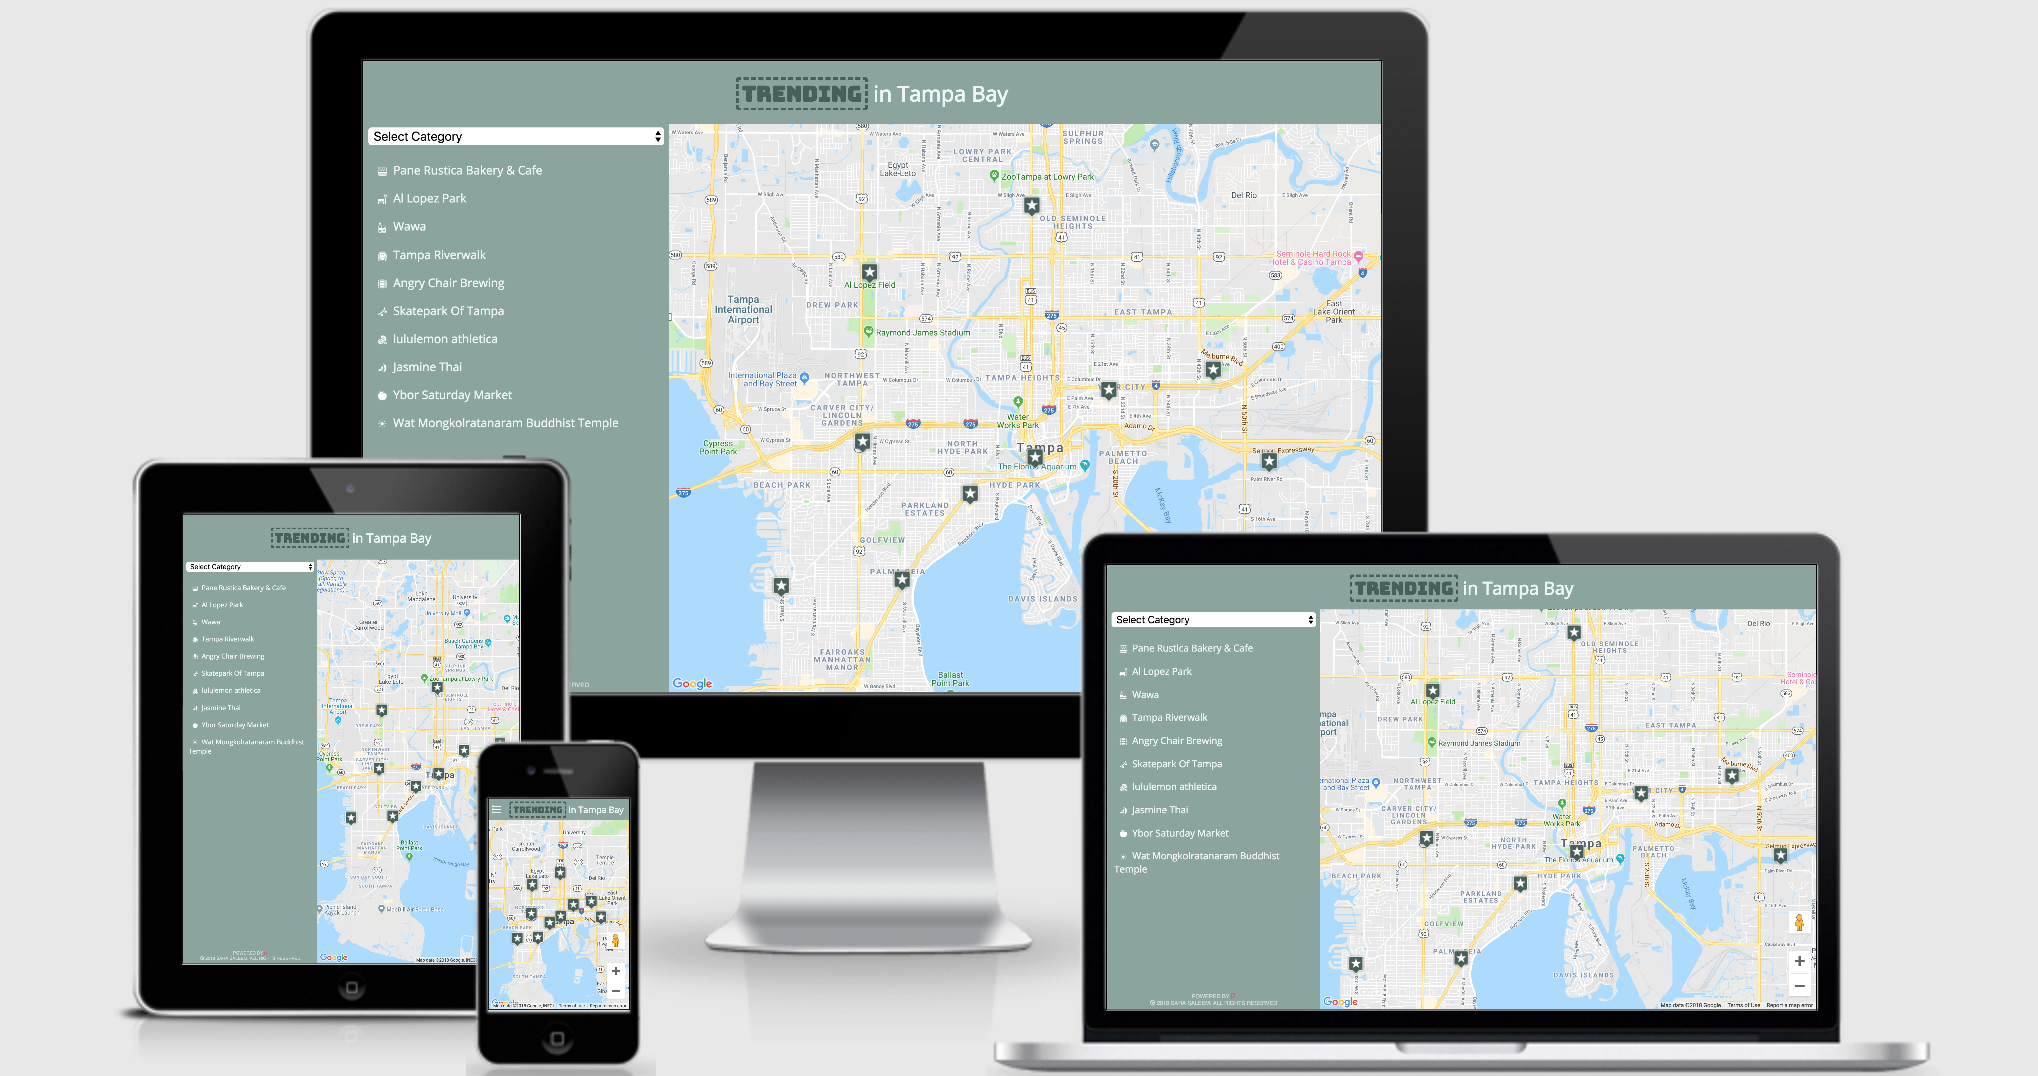
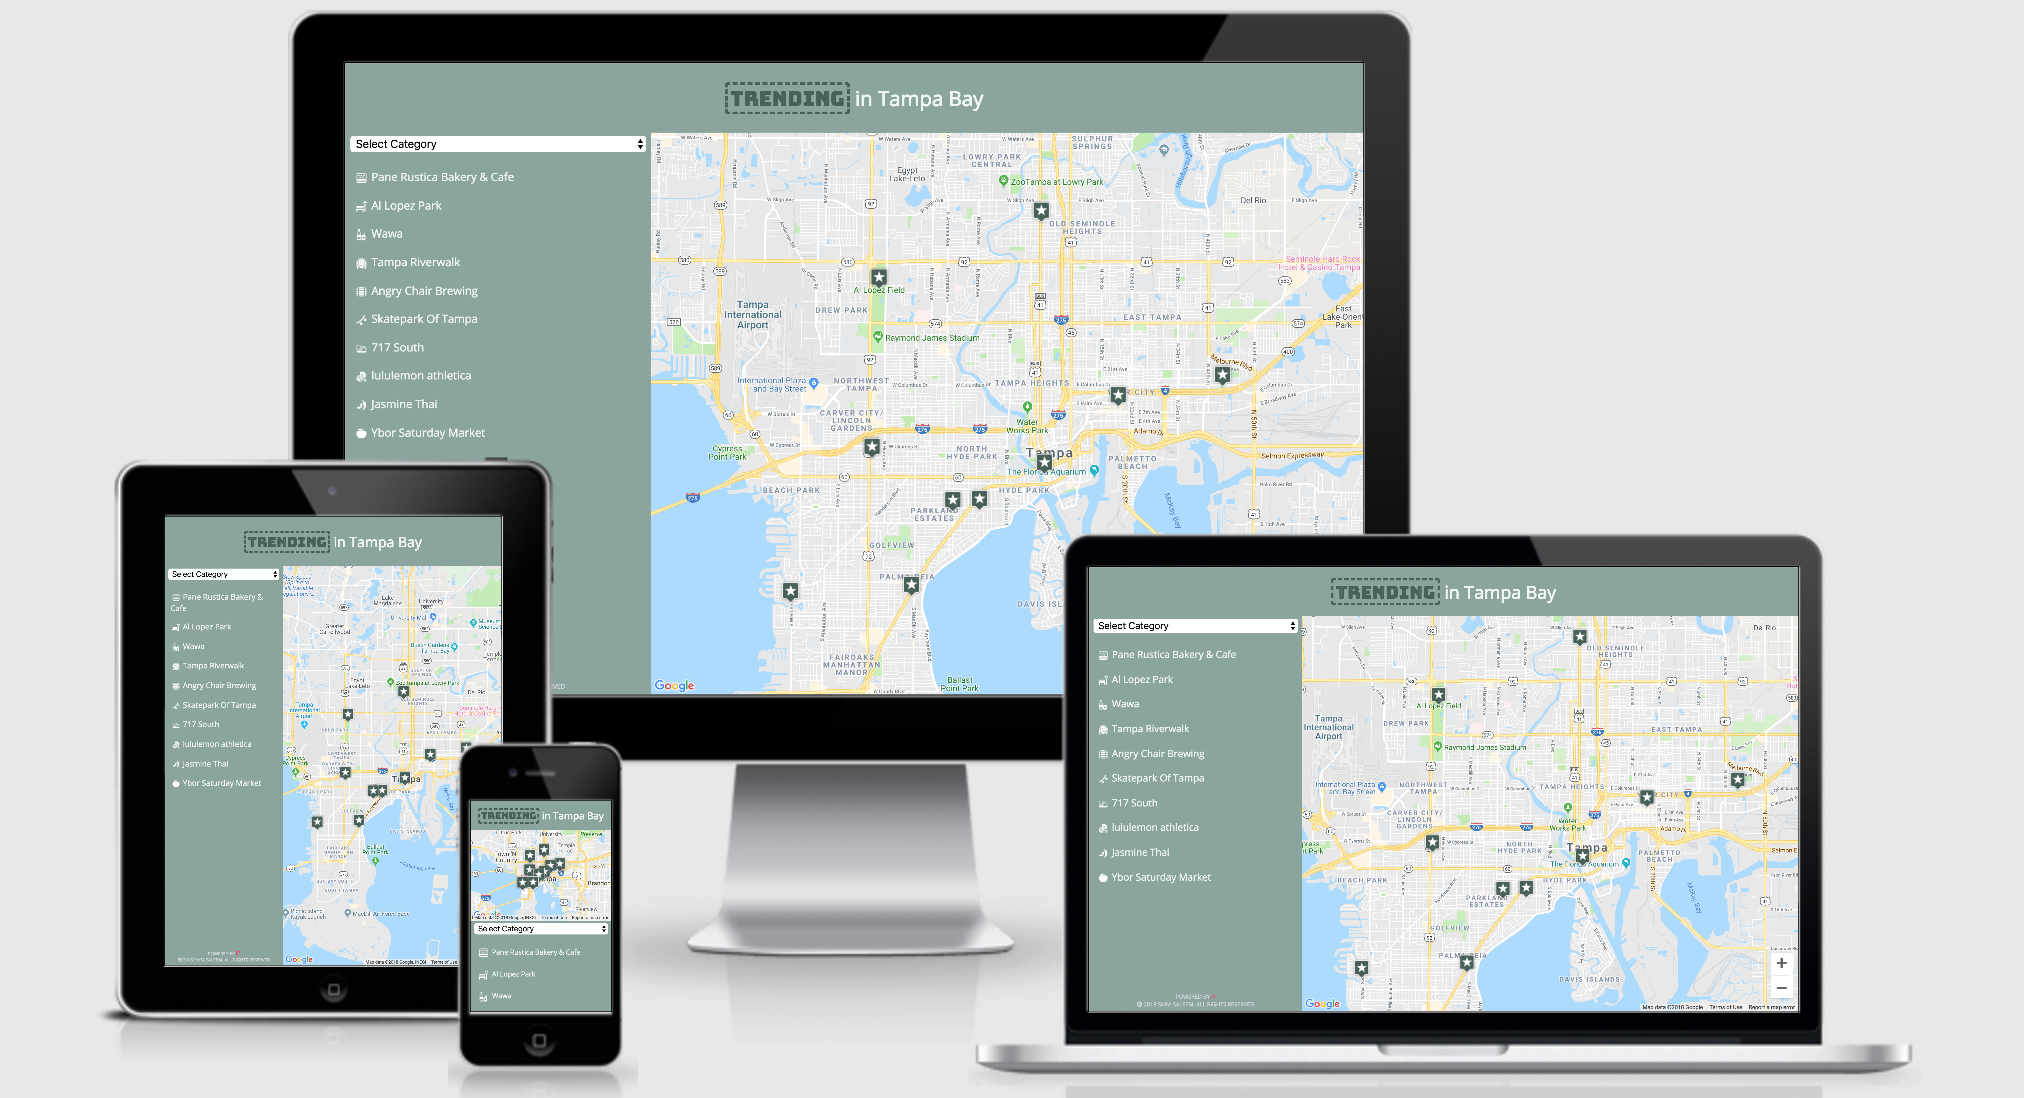
Update README

Changed region(s): [[0.0311, 0.0, 0.9649, 1.0]]

diff --git a/README.md b/README.md
@@ -19,9 +19,7 @@ A responsive Google Maps web application displaying top trending places at Fours
 ![infowindow showing tip and photo](selectVenue.png)
 
 ### Responsive Design
-The site is mobile-first and fully responsive. The sidebar listing all the places is hidden on smaller screens and a hamburger icon can be clicked to show or hide sidebar.
-
-![responsive sidebar](responsive-list.png)
+The site is mobile-first and fully responsive. Leveraging portrait mode dimensions, the sidebar listing all the places is moved to the bottom of the map on smaller screen devices. Sass is used to keep the styles organized and maintainable.
 
 ### Asynchronicity and Error Handling
 All data from Google Maps and Foursquare API is loaded asynchronously, and errors are handled gracefully.
@@ -42,7 +40,8 @@ All data from Google Maps and Foursquare API is loaded asynchronously, and error
 - [google-maps-react](https://www.npmjs.com/package/google-maps-react) - A declarative Google Map React component built using React.
 - [Foursquare API](https://developer.foursquare.com/docs/api) - Api to incorporate Foursquare venues data as well as Photos, tips, and reviews written by Foursquare users into apps.
 - [prop-types](https://www.npmjs.com/package/prop-types) - Runtime type checking for React props.
-- [Fetch API](https://developer.mozilla.org/en-US/docs/Web/API/Fetch_API) - An interface for fetching resources.
+- [Fetch API](https://developer.mozilla.org/en-US/docs/Web/API/Fetch_API) - A JavaScript interface for asynchronously fetching resources.
+- [SASS](https://sass-lang.com/) - A mature, stable, and powerful professional grade CSS extension language.
 - [CSS Flexbox](https://www.w3schools.com/css/css3_flexbox.asp) - CSS layout module to design flexible responsive layout structure without using float or positioning.
 - [CSS Media Queries](https://www.w3schools.com/css/css3_mediaqueries.asp) - A popular technique to deliver a tailored style sheet to desktops, laptops, tablets, and mobile phones by defining different style rules for different media types.
 
